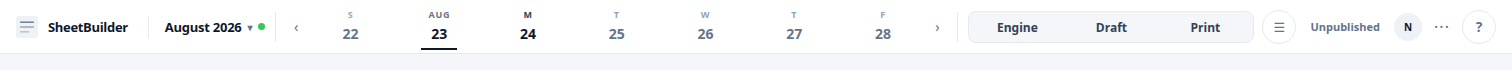
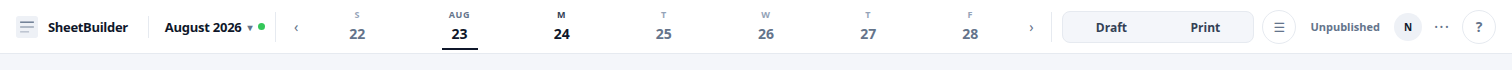
chore(sheetbuilder): recapture after-shots without the Engine pill
Hug Draft/Print to content so the night cluster does not keep an empty
Engine slot. Refresh full-board and header after-shots.

diff --git a/src/lib/shiftbuilder/liveBoardViewportContract.test.ts b/src/lib/shiftbuilder/liveBoardViewportContract.test.ts
@@ -453,6 +453,7 @@ describe("SheetBuilder chrome match (light topbar)", () => {
     expect(floatingNav).not.toContain("sb-night-action-pill--engine");
     expect(floatingNav).toContain("sb-night-action-pill--draft");
     expect(floatingNav).toContain("sb-night-action-pill--print");
+    expect(globalsCss).toContain(".sb-night-action-pill:not(.sb-night-action-pill--split) {\n  flex: 0 0 auto;");
     expect(floatingNav).toContain("sb-topbar-day-strip");
     expect(floatingNav).toContain("sb-day-strip-btn--active");
     expect(floatingNav).toContain('borderBottom: "2px solid #0F172A"');

diff --git a/src/app/globals.css b/src/app/globals.css
@@ -7225,10 +7225,12 @@ body.sb-tablet-dock-open .sb-builder-shell.sb-sheetbuilder-redesign .sb-stage-ho
 .sb-sheetbuilder-redesign .sb-night-action-pills {
   display: inline-flex;
   align-items: stretch;
+  width: auto;
+  flex: 0 0 auto;
 }
 
 .sb-sheetbuilder-redesign .sb-night-action-pill:not(.sb-night-action-pill--split) {
-  flex: 1 1 0;
+  flex: 0 0 auto;
   min-width: 68px;
   padding-inline: 10px;
 }
